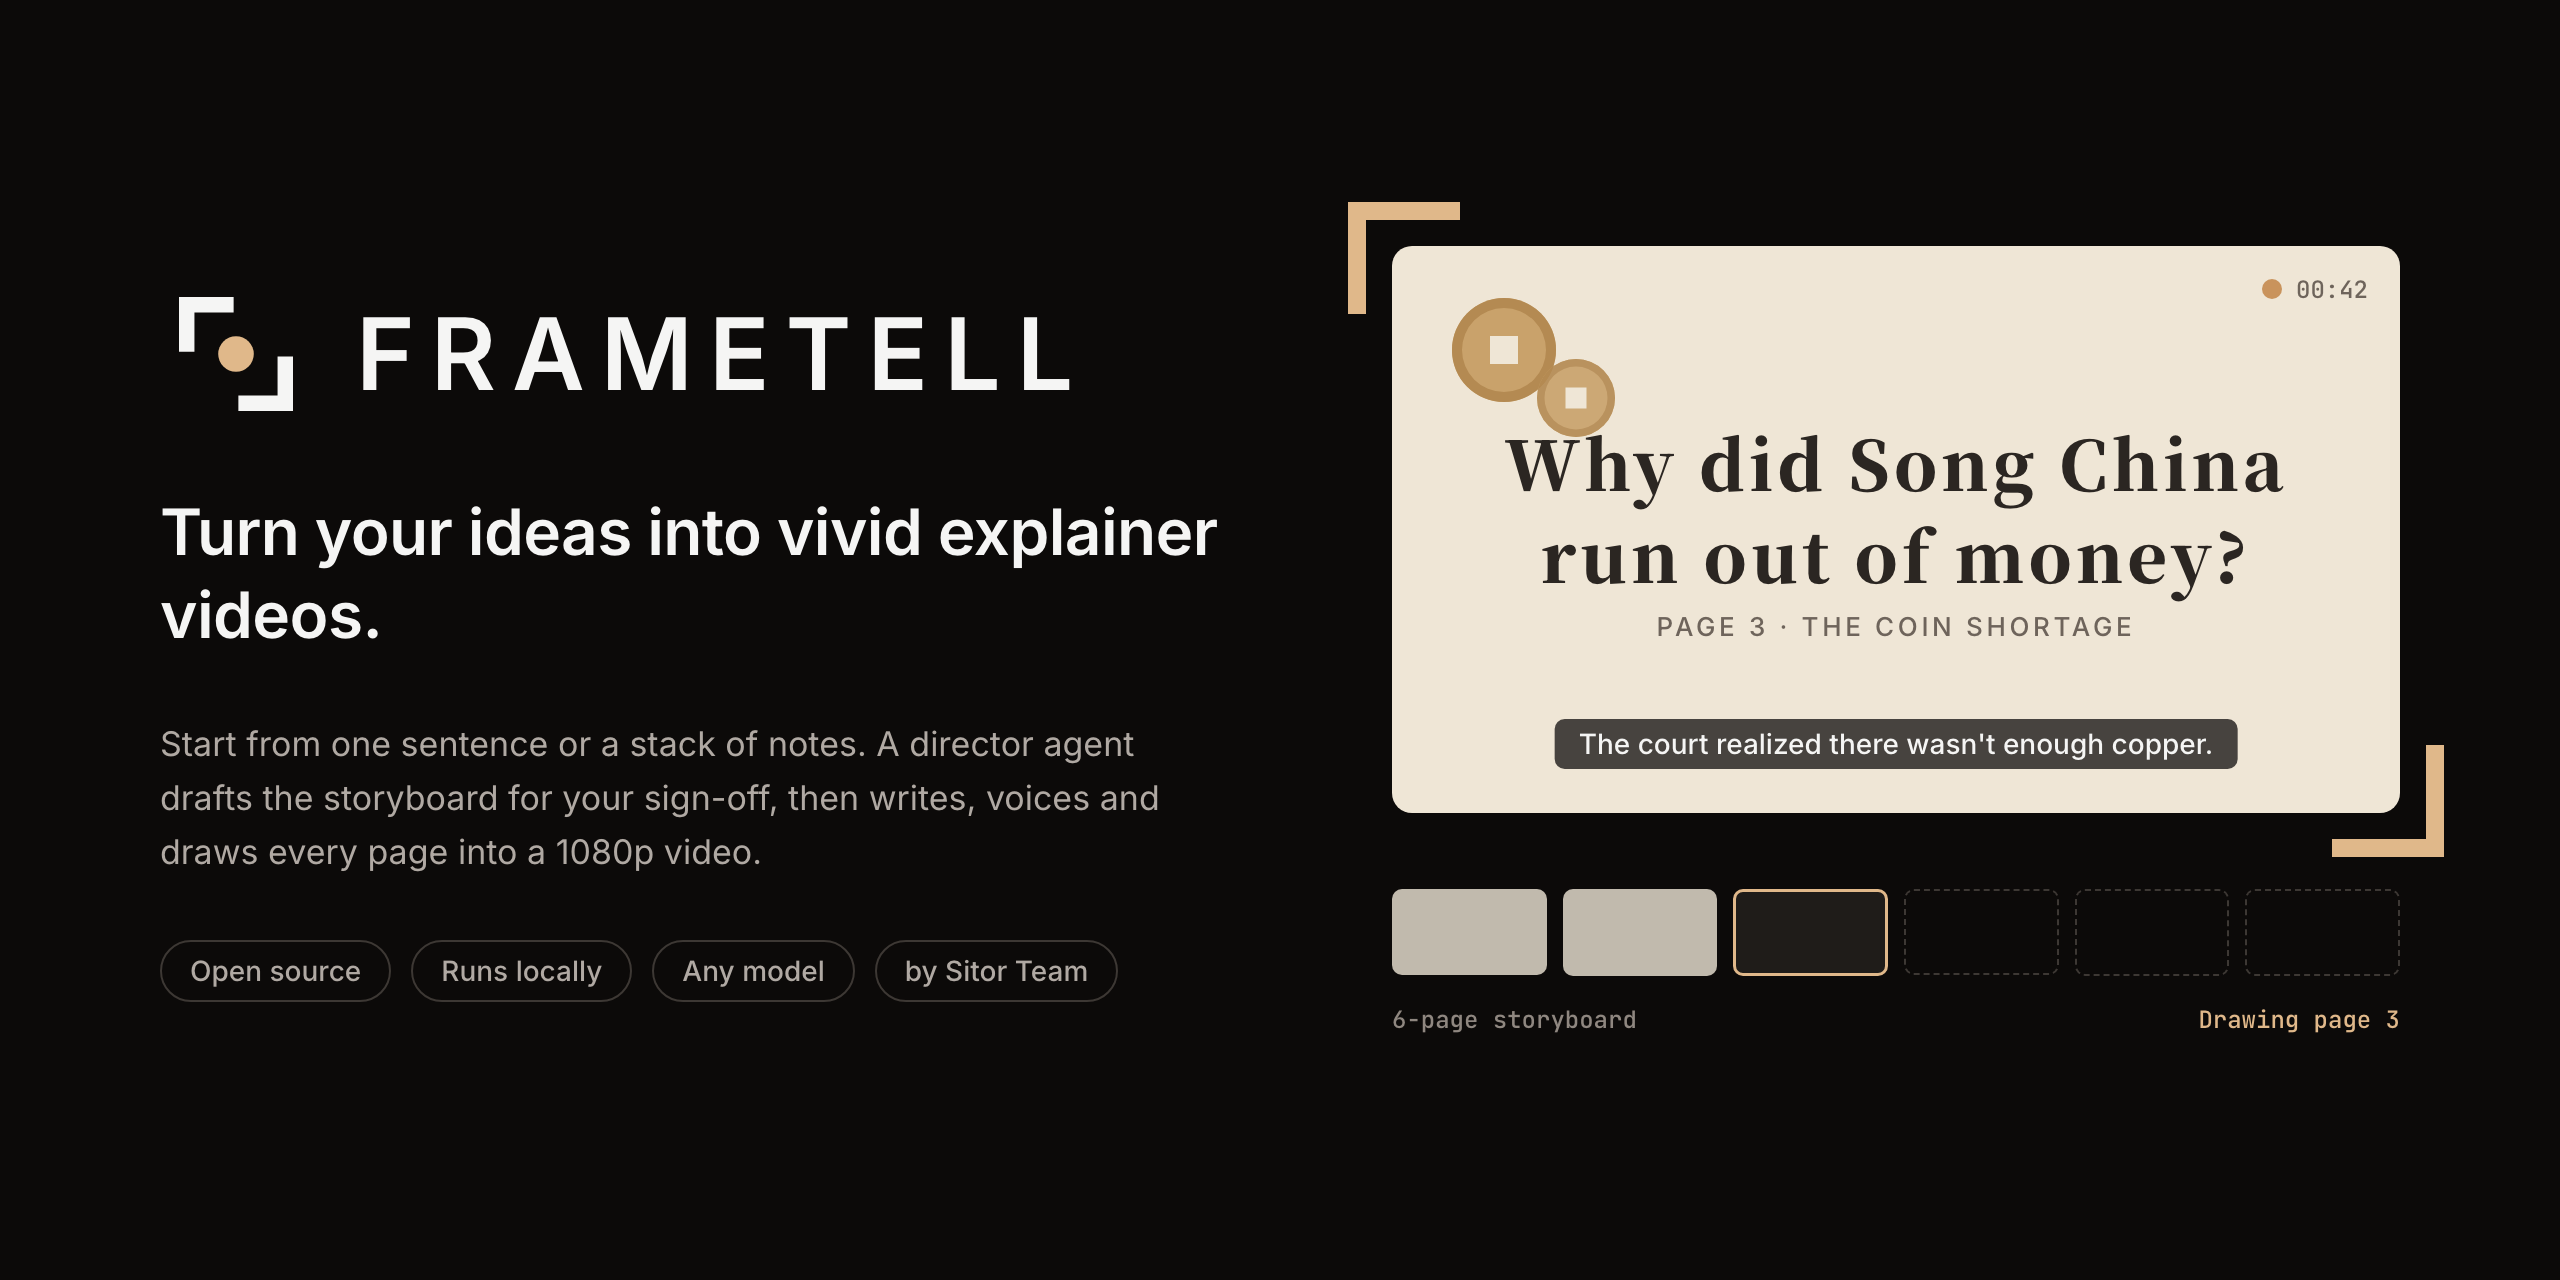
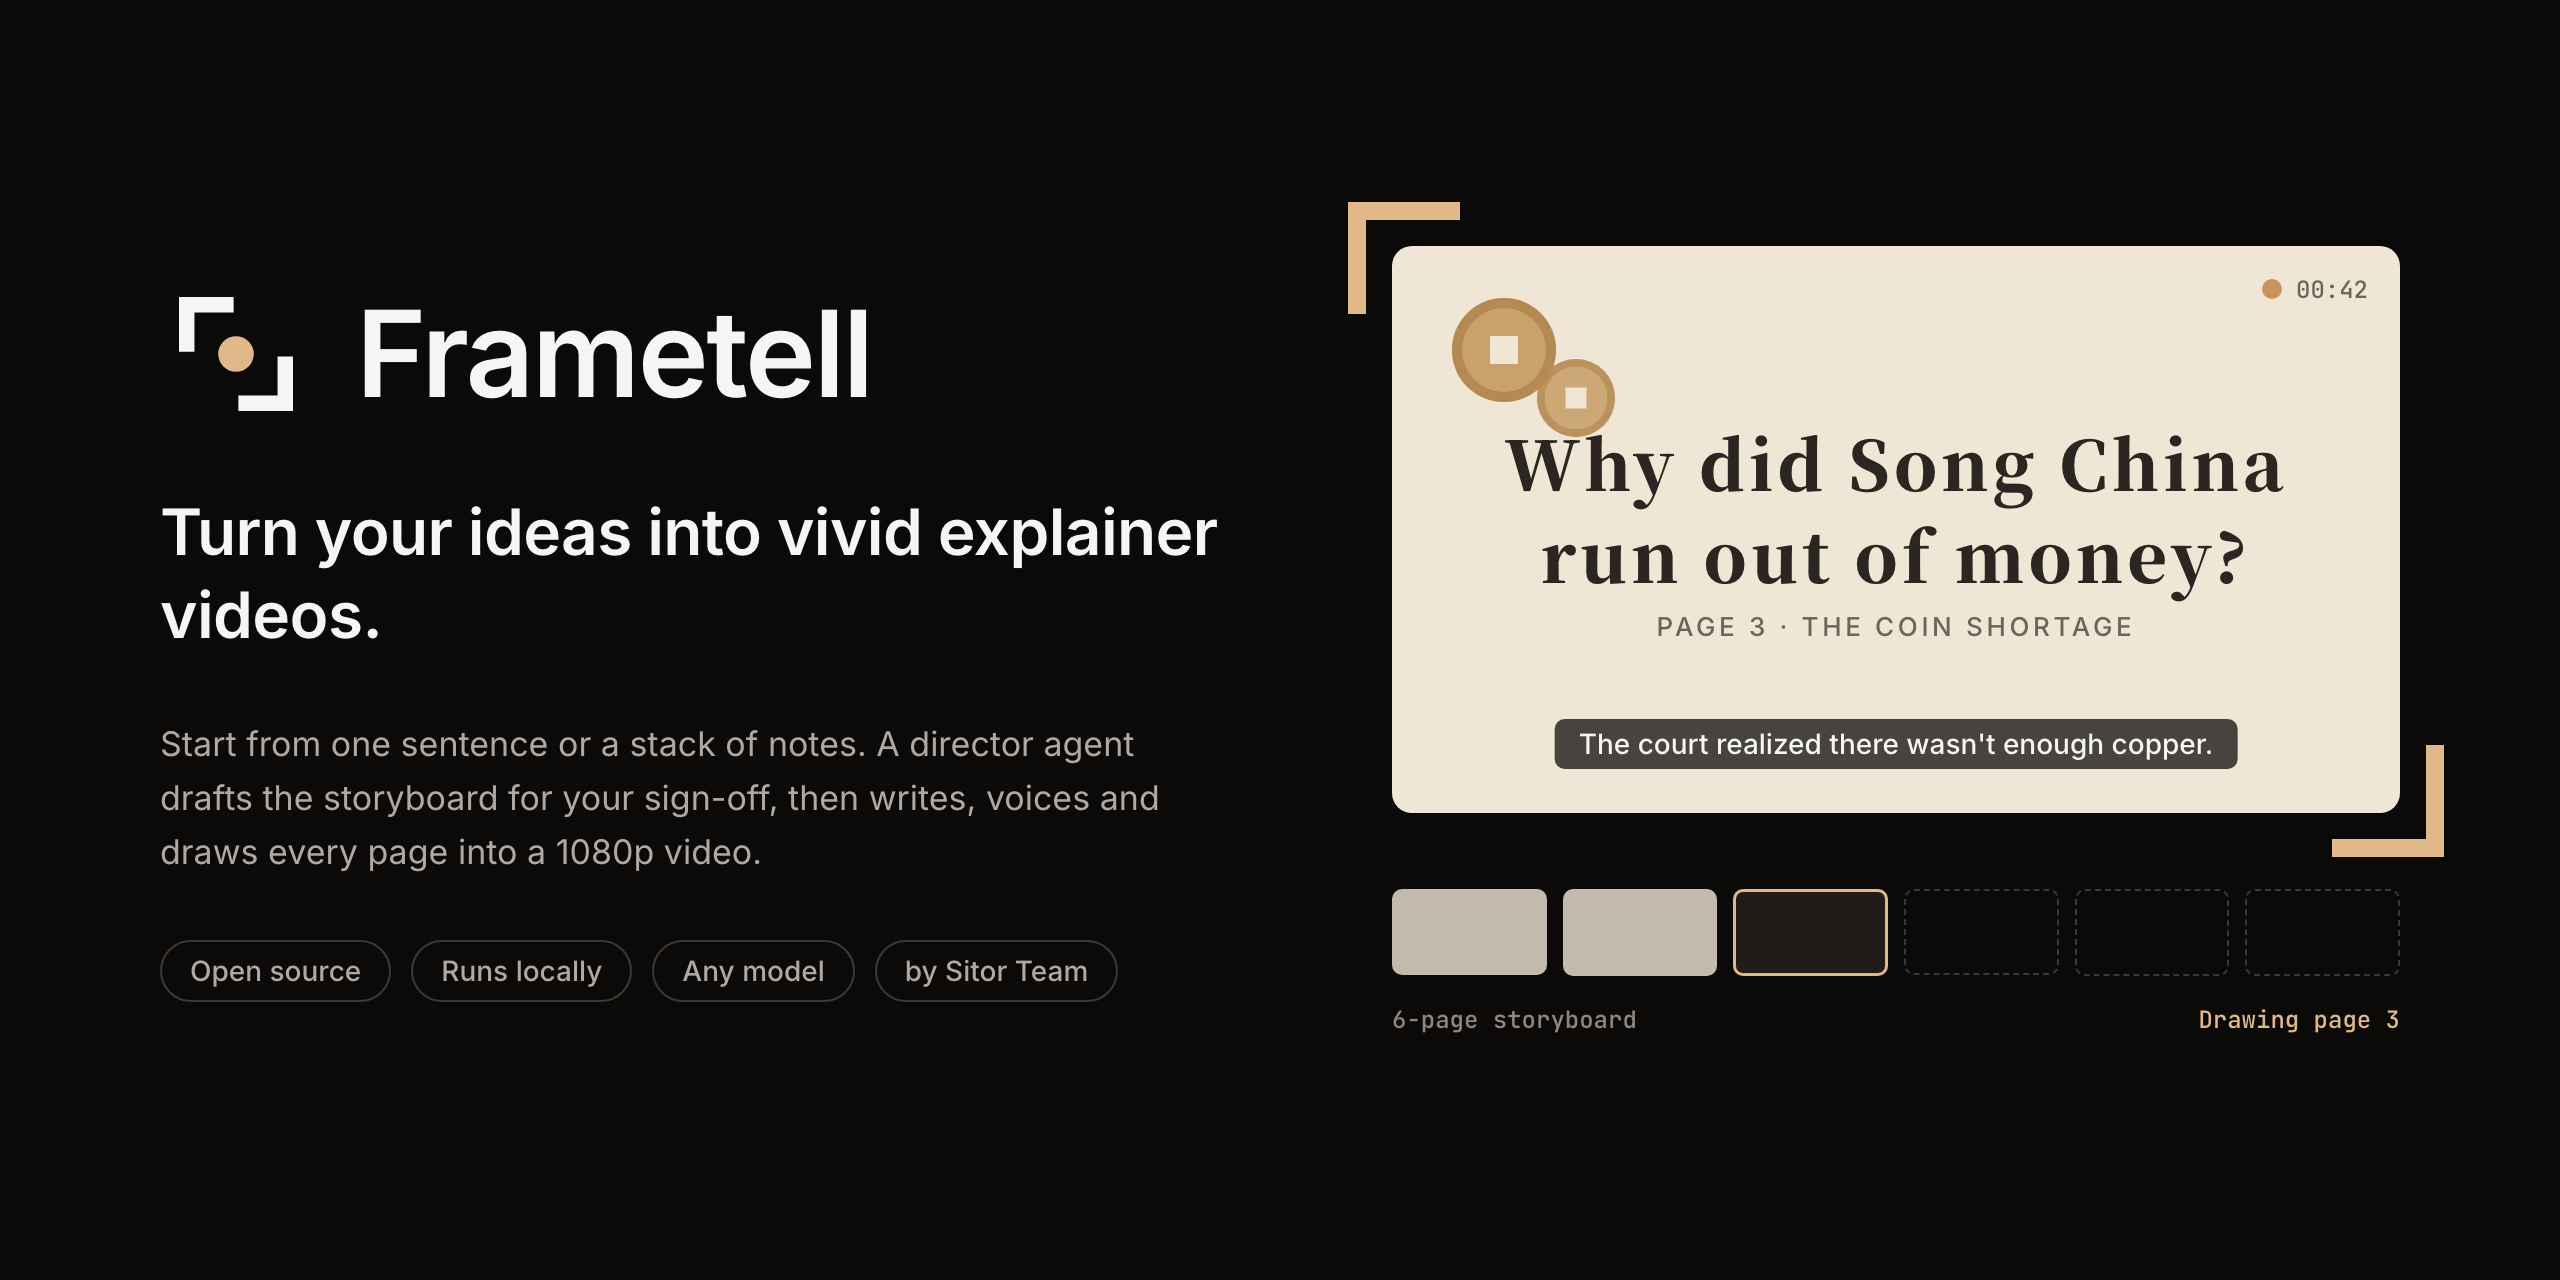
docs(brand): Frametell is never written in capitals
The wordmark read FRAMETELL in the app bar, banners and handbook. It is
Frametell everywhere now, with tracking for mixed case, and the handbook
says so.

Changed region(s): [[0.125, 0.2188, 0.4375, 0.3125]]

diff --git a/docs/brand/index.html b/docs/brand/index.html
@@ -60,7 +60,7 @@ p { margin: 0; }
 .lockup { display: inline-flex; align-items: center; gap: .5em; line-height: 1; white-space: nowrap; }
 .lockup svg { flex-shrink: 0; }
 .cn { font-family: var(--f-cn); font-weight: 700; letter-spacing: .06em; color: var(--ink); }
-.lockup .en { font: 600 .3em var(--f-ui); letter-spacing: .26em; color: var(--ink-3); border-left: 1px solid var(--line-2); padding: .35em 0 .35em .9em; }
+.lockup .en { font: 600 .36em var(--f-ui); letter-spacing: -.005em; color: var(--ink-3); border-left: 1px solid var(--line-2); padding: .35em 0 .35em .9em; }
 .lockup .by { font: 500 .24em var(--f-ui); letter-spacing: .18em; color: var(--ink-3); text-transform: uppercase; margin-left: .3em; }
 /* 「画说」纯字标：引号就是取景框的两个角 */
 .qw { display: inline-flex; align-items: center; gap: .04em; line-height: 1; white-space: nowrap; }
@@ -117,7 +117,7 @@ section > header p { margin-top: 6px; color: var(--ink-3); font-size: 13px; }
 .lk.wide { grid-column: 1 / -1; }
 .stacked { display: flex; flex-direction: column; align-items: center; gap: 14px; }
 .stacked .cn { font-size: 34px; line-height: 1; }
-.stacked .en { font: 600 11px var(--f-ui); letter-spacing: .3em; color: var(--ink-3); padding-left: .3em; }
+.stacked .en { font: 600 14px var(--f-ui); letter-spacing: 0; color: var(--ink-3); padding-left: .3em; }
 @media (max-width: 600px) { .lockups { grid-template-columns: 1fr; } }
 
 .swatches { display: grid; grid-template-columns: repeat(auto-fill, minmax(150px, 1fr)); gap: 12px; }
@@ -169,7 +169,7 @@ section > header p { margin-top: 6px; color: var(--ink-3); font-size: 13px; }
 .bumper svg { width: 10cqw; height: auto; overflow: visible; }
 .bumper .words { display: flex; align-items: center; gap: 2.2cqw; }
 .bumper .cn { font-size: 7cqw; color: #F5F5F4; line-height: 1; }
-.bumper .en { font: 600 1.7cqw var(--f-ui); letter-spacing: .3em; color: #8F8780; border-left: 1px solid #3D3834; padding: .9cqw 0 .9cqw 2cqw; }
+.bumper .en { font: 600 2.1cqw var(--f-ui); letter-spacing: -.005em; color: #8F8780; border-left: 1px solid #3D3834; padding: .9cqw 0 .9cqw 2cqw; }
 .bumper.play .c-tl { animation: inTL .8s cubic-bezier(.16,1,.3,1) both; }
 .bumper.play .c-br { animation: inBR .8s cubic-bezier(.16,1,.3,1) both; }
 .bumper.play .c-dot { transform-origin: 32px 32px; animation: dot .5s .65s cubic-bezier(.16,1,.3,1) both; }
@@ -266,7 +266,7 @@ footer { border-top: 1px solid var(--line); padding-block: 28px 48px; color: var
 
   <div class="hero">
     <span class="cap" style="letter-spacing:.16em">BY SITOR TEAM</span>
-    <span class="lockup"><svg><use href="#m"/></svg><span class="cn">画说</span><span class="en">FRAMETELL</span></span>
+    <span class="lockup"><svg><use href="#m"/></svg><span class="cn">画说</span><span class="en">Frametell</span></span>
     <p class="slogan"><span class="cn">画说万物</span><span>Show what you know.</span></p>
   </div>
 
@@ -282,8 +282,8 @@ footer { border-top: 1px solid var(--line); padding-block: 28px 48px; color: var
         </div>
         <div class="card">
           <span class="k">English</span>
-          <span style="font:600 26px var(--f-ui);letter-spacing:.24em;line-height:1.6">FRAMETELL</span>
-          <div class="eq"><i>FRAME</i><span>=</span><b>画</b><span>·</span><i>TELL</i><span>=</span><b>说</b></div>
+          <span style="font:600 30px var(--f-ui);letter-spacing:-.01em;line-height:1.4">Frametell</span>
+          <div class="eq"><i>frame</i><span>=</span><b>画</b><span>·</span><i>tell</i><span>=</span><b>说</b></div>
           <p class="prose">frame 是取景框，也是画面里的一帧；tell 是讲。<strong>框住一个画面，把它讲清楚</strong>。名字和标志说的是同一件事：「」就是那个 frame。英语里 frame story（框架叙事）也是讲故事的说法。</p>
         </div>
       </div>
@@ -341,7 +341,7 @@ footer { border-top: 1px solid var(--line); padding-block: 28px 48px; color: var
     <div class="body">
       <div class="lockups">
         <div class="lk wide">
-          <div class="stage"><span class="lockup" style="font-size:48px"><svg width="50" height="50"><use href="#m"/></svg><span class="cn">画说</span><span class="en">FRAMETELL</span><span class="by">by Sitor Team</span></span></div>
+          <div class="stage"><span class="lockup" style="font-size:48px"><svg width="50" height="50"><use href="#m"/></svg><span class="cn">画说</span><span class="en">Frametell</span><span class="by">by Sitor Team</span></span></div>
           <span class="cap">完整组合：官网、README、发布会、对外介绍</span>
         </div>
         <div class="lk">
@@ -349,7 +349,7 @@ footer { border-top: 1px solid var(--line); padding-block: 28px 48px; color: var
           <span class="cap">纯字标「画说」：引号本身就是标志。海报、片尾、社交封面</span>
         </div>
         <div class="lk">
-          <div class="stage"><span class="stacked"><svg width="60" height="60"><use href="#m"/></svg><span class="cn">画说</span><span class="en">FRAMETELL</span></span></div>
+          <div class="stage"><span class="stacked"><svg width="60" height="60"><use href="#m"/></svg><span class="cn">画说</span><span class="en">Frametell</span></span></div>
           <span class="cap">竖排：方形位置、启动页</span>
         </div>
         <div class="lk">
@@ -357,7 +357,7 @@ footer { border-top: 1px solid var(--line); padding-block: 28px 48px; color: var
           <span class="cap">只用中文：应用顶栏、国内平台、视频角标</span>
         </div>
         <div class="lk">
-          <div class="stage"><span class="lockup" style="font-size:36px"><svg width="38" height="38"><use href="#m"/></svg><span style="font:600 22px var(--f-ui);letter-spacing:.26em;color:var(--ink)">FRAMETELL</span></span></div>
+          <div class="stage"><span class="lockup" style="font-size:36px"><svg width="38" height="38"><use href="#m"/></svg><span style="font:600 26px var(--f-ui);letter-spacing:-.01em;color:var(--ink)">Frametell</span></span></div>
           <span class="cap">只用英文：海外、GitHub、英文界面</span>
         </div>
       </div>
@@ -383,7 +383,7 @@ footer { border-top: 1px solid var(--line); padding-block: 28px 48px; color: var
     <div class="body">
       <div class="type-rows">
         <div class="type-row"><span class="cap">中文字标</span><span class="sample cn" style="font-size:36px">画说万物</span></div>
-        <div class="type-row"><span class="cap">英文字标</span><span class="sample" style="font:600 22px var(--f-ui);letter-spacing:.26em">FRAMETELL</span></div>
+        <div class="type-row"><span class="cap">英文字标</span><span class="sample" style="font:600 26px var(--f-ui);letter-spacing:-.01em">Frametell</span></div>
         <div class="type-row"><span class="cap">界面正文</span><span class="sample" style="font-size:15px">导演 Agent 先出分镜给你确认，再写口播、配音、逐页画面并自检。<br>The director drafts a storyboard for your sign-off, then draws every page.</span></div>
         <div class="type-row"><span class="cap">数字</span><span class="sample mono" style="font-size:15px">¥ 3.42 · 04:36 · 128,400 tokens</span></div>
       </div>
@@ -411,7 +411,7 @@ footer { border-top: 1px solid var(--line); padding-block: 28px 48px; color: var
               <span class="right"><span class="mono hide-sm">¥ 3.42</span><span class="btn">导出</span></span>
             </div>
           </div>
-          <span class="cap"><span>应用顶栏 · 52px，英文界面换成 FRAMETELL</span></span>
+          <span class="cap"><span>应用顶栏 · 52px，英文界面换成 Frametell</span></span>
         </div>
 
         <div class="good w6">
@@ -422,7 +422,7 @@ footer { border-top: 1px solid var(--line); padding-block: 28px 48px; color: var
                 <path class="c-br" style="fill:var(--mb)" d="M56 56H33V49.5H49.5V33H56Z"/>
                 <circle class="c-dot" style="fill:var(--ma)" cx="32" cy="32" r="7.5"/>
               </svg>
-              <div class="words"><span class="cn">画说</span><span class="en">FRAMETELL</span></div>
+              <div class="words"><span class="cn">画说</span><span class="en">Frametell</span></div>
             </div>
           </div>
           <span class="cap"><span>片头 · 1.8 秒：两只角从画外合拢 → 圆点亮起，开始录 → 字标</span><button class="btn-ghost" id="replay" type="button">重播</button></span>
@@ -488,7 +488,7 @@ footer { border-top: 1px solid var(--line); padding-block: 28px 48px; color: var
             <li>不补成四只角：四角就成了扫码框，“引号”这层意思没了。</li>
             <li>不把圆点换成三角播放键，不给圆点换颜色。</li>
             <li>不加渐变、发光、描边、投影。</li>
-            <li>不写成“画说 Studio”或“Frametell AI”；“by Sitor Team”不进界面顶栏和视频角标。</li>
+            <li>英文名永远写成 Frametell：只有首字母大写，任何地方都不写成全大写的 FRAMETELL。不写成“画说 Studio”或“Frametell AI”；“by Sitor Team”不进界面顶栏和视频角标。</li>
           </ul>
         </div>
       </div>

diff --git a/docs/brand/banner.html b/docs/brand/banner.html
@@ -24,12 +24,12 @@ html, body { margin: 0; width: 1280px; height: 640px; overflow: hidden; backgrou
 .lockup { display: flex; align-items: center; gap: 22px; }
 .lockup svg { width: 76px; height: 76px; }
 .lockup .cn { font: 700 72px/1 var(--f-cn); letter-spacing: .06em; }
-.lockup .en { font: 600 18px/1 var(--f-ui); letter-spacing: .3em; color: var(--ink-3); border-left: 1px solid var(--line-2); padding: 10px 0 10px 22px; }
+.lockup .en { font: 600 24px/1 var(--f-ui); letter-spacing: -.005em; color: var(--ink-3); border-left: 1px solid var(--line-2); padding: 10px 0 10px 22px; }
 .tag { font: 700 30px/1.45 var(--f-cn); letter-spacing: .04em; color: var(--ink); }
 :root[lang="en"] .tag { font: 600 32px/1.3 var(--f-ui); letter-spacing: -.01em; }
-/* the English banner carries no Chinese: FRAMETELL alone is the wordmark */
+/* the English banner carries no Chinese: Frametell alone is the wordmark — always written Frametell, never in capitals */
 :root[lang="en"] .lockup .cn { display: none; }
-:root[lang="en"] .lockup .en { font: 600 50px/1 var(--f-ui); letter-spacing: .16em; color: var(--ink); border-left: 0; padding: 0; }
+:root[lang="en"] .lockup .en { font: 650 60px/1 var(--f-ui); letter-spacing: -.02em; color: var(--ink); border-left: 0; padding: 0; }
 .sub { font-size: 17px; line-height: 1.6; color: var(--ink-2); max-width: 30em; }
 .chips { display: flex; gap: 10px; flex-wrap: wrap; }
 .chips span { font: 500 14px var(--f-ui); color: var(--ink-2); border: 1px solid var(--line-2); border-radius: 99px; padding: 6px 14px; }
@@ -63,7 +63,7 @@ html, body { margin: 0; width: 1280px; height: 640px; overflow: hidden; backgrou
   <div class="left">
     <div class="lockup">
       <svg viewBox="0 0 64 64"><path style="fill:var(--ink)" d="M8 8H31V14.5H14.5V31H8Z"/><path style="fill:var(--ink)" d="M56 56H33V49.5H49.5V33H56Z"/><circle style="fill:var(--accent)" cx="32" cy="32" r="7.5"/></svg>
-      <span class="cn">画说</span><span class="en">FRAMETELL</span>
+      <span class="cn">画说</span><span class="en">Frametell</span>
     </div>
     <p class="tag" data-zh="把想法和资料，画说成生动的视频" data-en="Turn your ideas into vivid explainer videos."></p>
     <p class="sub" data-zh="一句灵感、一份文档都能开始。导演 Agent 先出分镜给你拍板，再写口播、配音、逐页作画并自检，最后渲染成 1080p 成片。" data-en="Start from one sentence or a stack of notes. A director agent drafts the storyboard for your sign-off, then writes, voices and draws every page into a 1080p video."></p>

diff --git a/packages/ui/src/components/Logo.tsx b/packages/ui/src/components/Logo.tsx
@@ -23,7 +23,7 @@ export function Crest({ size = 24, className = '' }: { size?: number; className?
   );
 }
 
-/** mark + name in the interface language: 画说 in Chinese, FRAMETELL otherwise */
+/** mark + name in the interface language: 画说 in Chinese, Frametell otherwise (never in capitals) */
 export function Wordmark({ compact = false }: { compact?: boolean }) {
   const { locale } = useT();
   return (
@@ -31,7 +31,7 @@ export function Wordmark({ compact = false }: { compact?: boolean }) {
       <Crest size={20} />
       {!compact && (locale === 'zh'
         ? <span className="font-display text-[17px] font-bold leading-none tracking-[0.06em] text-ink">画说</span>
-        : <span className="text-[13px] font-semibold leading-none tracking-[0.24em] text-ink">FRAMETELL</span>)}
+        : <span className="text-[15px] font-semibold leading-none tracking-[-0.01em] text-ink">Frametell</span>)}
     </span>
   );
 }
